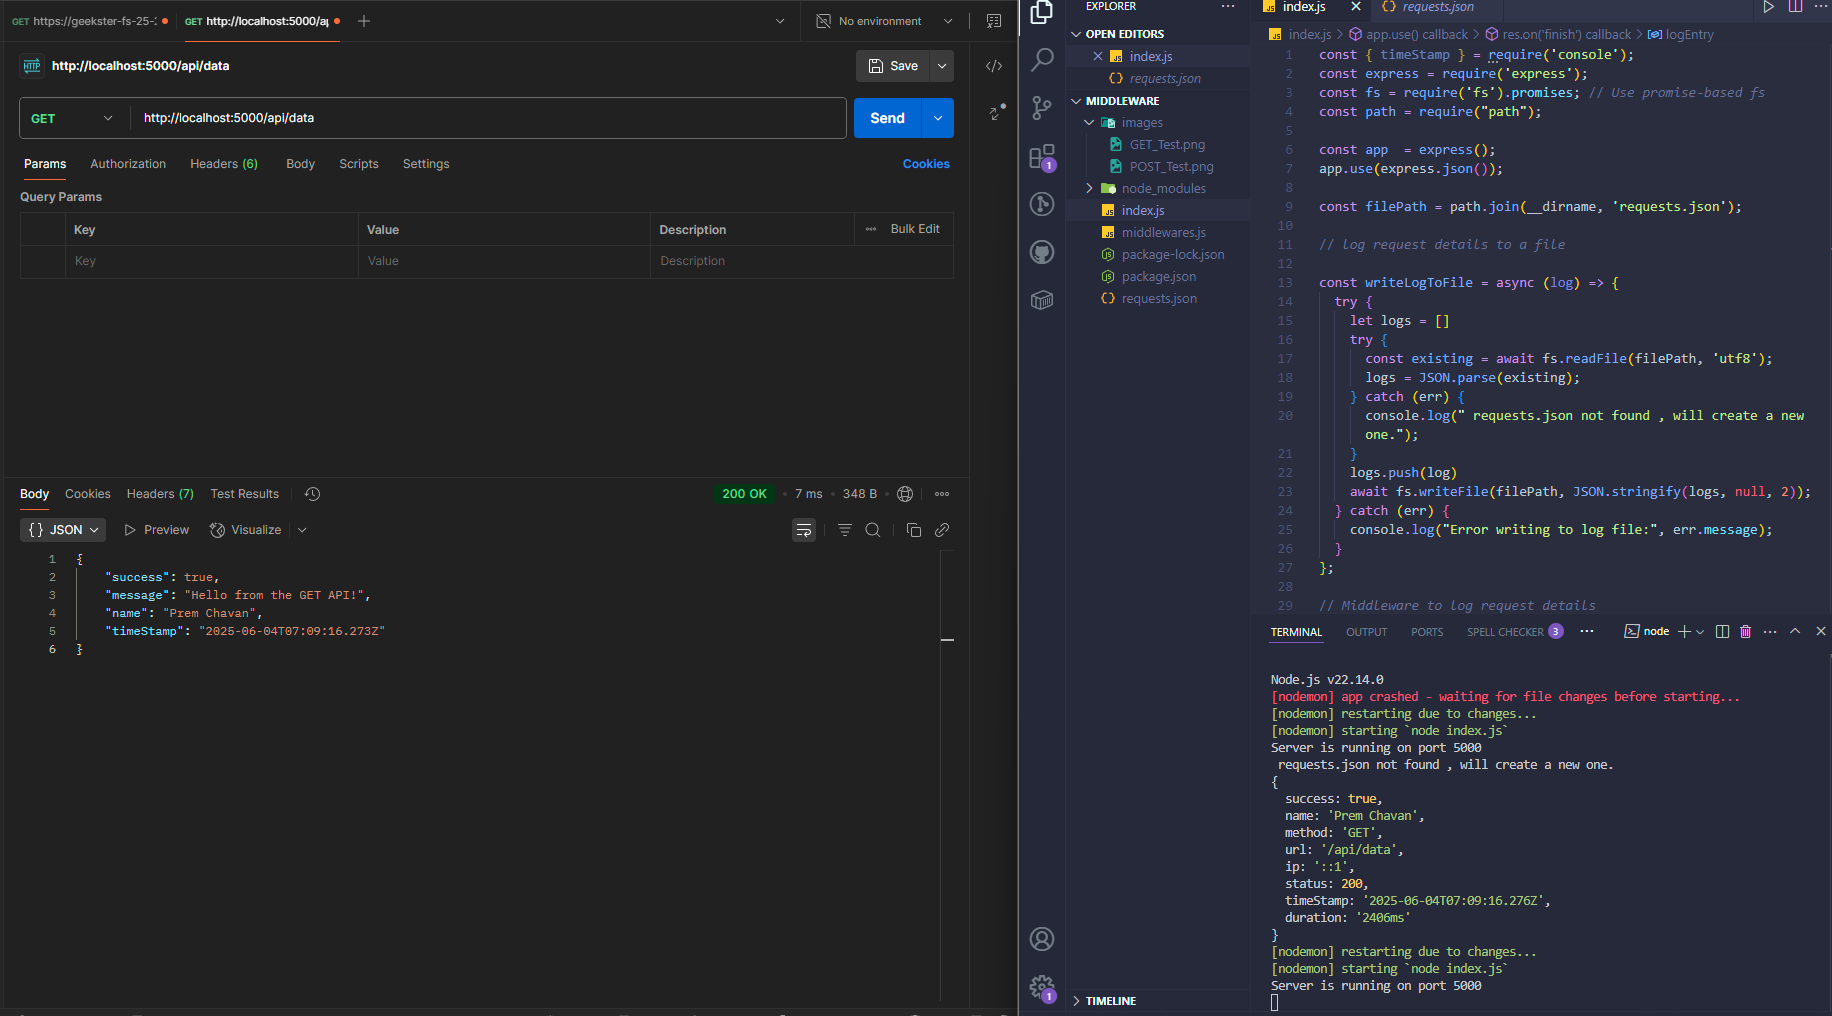
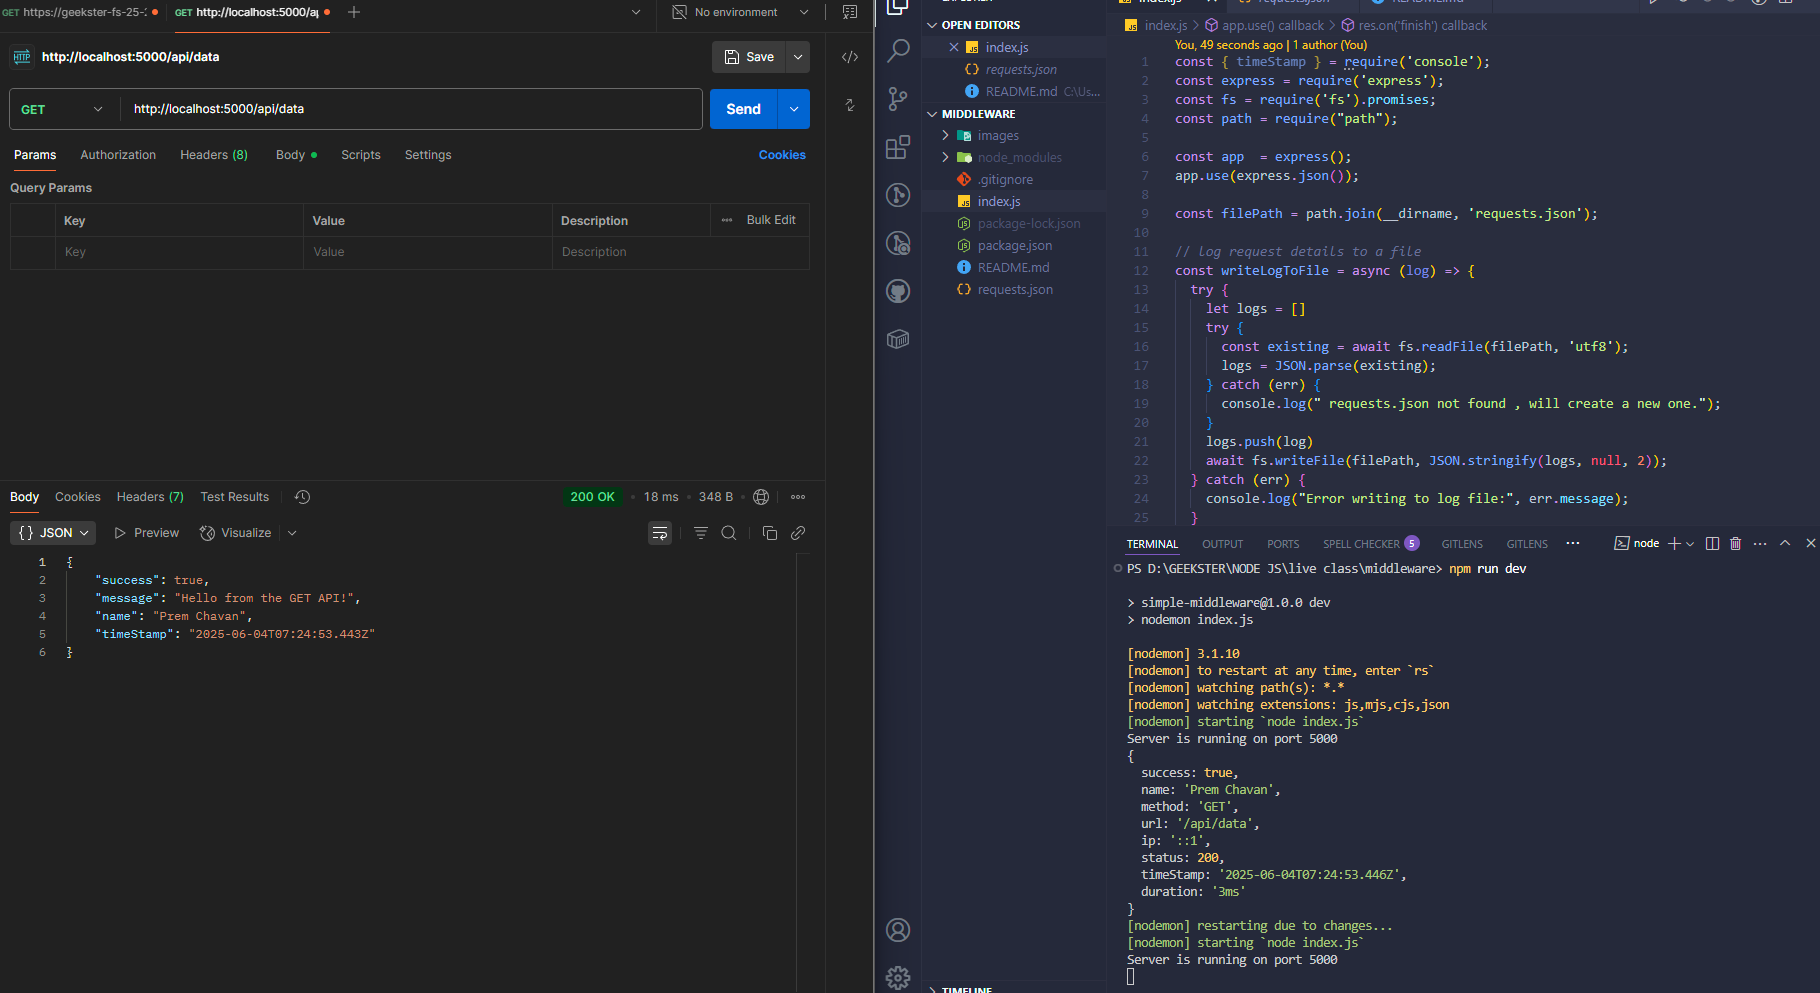
made changes for logging

diff --git a/index.js b/index.js
@@ -35,6 +35,7 @@ app.use(async (req, res, next) => {
     const logEntry = {
       success: true,
       name: "Prem Chavan",
+      message: req.body.message || "Request processed",
       method: req.method,
       url: req.originalUrl,
       ip: req.ip,
